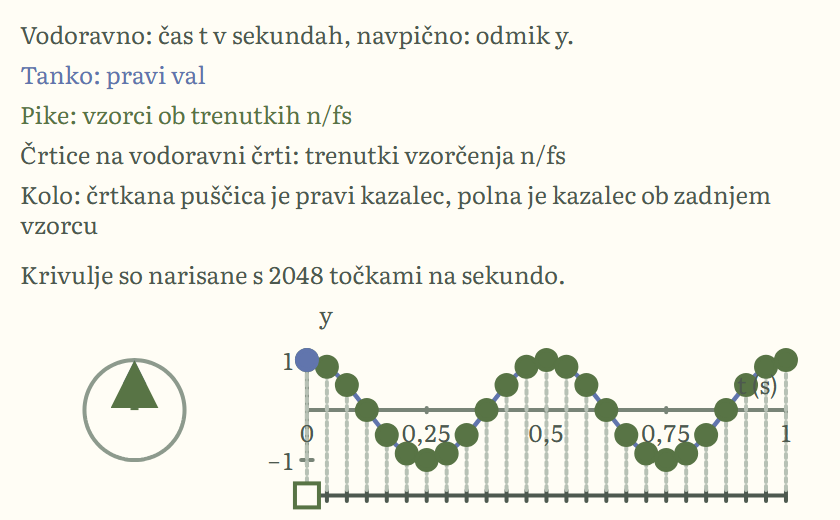
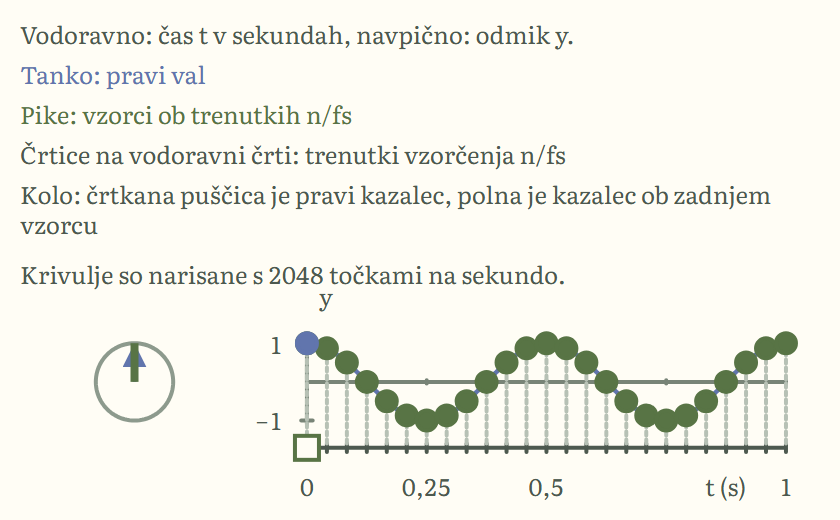
fix: waves sampling layout (tick row under the strip, wheel names inside the board); cards recaptured
Tick numbers and "t (s)" move to a row below the sampling strip, clear of
the dots; 44 px reserved under the strip holds the wheel names at 390 px.
Aliasing and nyquist cards recaptured with a lower window; WV1-WV3 unchanged.

Claude-Session: https://claude.ai/code/session_01UfEZWQHhkNHU2eRpvkyBtG

Changed region(s): [[0.3095, 0.5538, 0.9595, 0.9846], [0.0929, 0.6462, 0.2476, 0.8615], [0.1238, 0.8308, 0.2167, 0.8923]]

diff --git a/src/graphs/functions/WavesGraph.tsx b/src/graphs/functions/WavesGraph.tsx
@@ -82,11 +82,10 @@ export function frameFor(derived: WavesDerived, captions?: {readonly roomPx: num
     // (with the "y" title above its top end) and give the rest of the board's height to the plot.
     if (captions && Number.isFinite(captions.heightPx)) {
         const need = Math.min(captions.roomPx + Y_TITLE_PX, captions.heightPx - MIN_PLOT_PX);
-        // The tick numbers and the axis title stand in a row under the plot (not in sampling mode): keep that row inside the board.
-        if (derived.mode !== "sampling") {
-            const plotPx = captions.heightPx - Math.max(need, 0);
-            bottom = Math.min(bottom, peak - (2 * peak) / (1 - TICK_ROW_PX / plotPx));
-        }
+        // The tick numbers and the axis title stand in a row under the plot (under the strip in sampling mode): keep that row inside the board.
+        const plotPx = captions.heightPx - Math.max(need, 0);
+        if (derived.mode === "sampling") bottom = Math.min(bottom, stripLevel(derived) - (2.55 * peak * SAMPLING_BELOW_PX) / (plotPx - SAMPLING_BELOW_PX));
+        else bottom = Math.min(bottom, peak - (2 * peak) / (1 - TICK_ROW_PX / plotPx));
         if (need > 0) top = Math.max(top, peak + (need * (peak - bottom)) / (captions.heightPx - need));
     }
     return [hasPanel ? -0.66 * span : -0.1 * span, top, 1.06 * span, bottom];
@@ -112,8 +111,14 @@ const NAME_GAP_PX = 24;
 const NAME_ROW_PX = 20;
 const MIN_PLOT_PX = 90;
 
-/** Where a strip of instants lies under the plot (sampling mode), in units of the vertical half extent. */
+/**
+ * Sampling mode, under the plot edge, top to bottom: the strip of instants (its line at `stripLevel`, in board units so that a card window keeps it), the
+ * hollow square (half STRIP_SQUARE_PX), the row of tick numbers and the axis title, and a margin. SAMPLING_BELOW_PX is the height under the strip line; it
+ * also holds the two wheel names (the circle is at most the plot half height, then 58 px of names).
+ */
 const stripLevel = (derived: WavesDerived): number => -1.55 * 1.1 * derived.yPeak;
+const STRIP_SQUARE_PX = 7;
+const SAMPLING_BELOW_PX = 44;
 
 /** A curve that is redrawn only when its source changes. */
 const ALWAYS = (): unknown => ({});
@@ -486,20 +491,18 @@ export class WavesGraph extends BaseGraph<WavesGraphState, WavesState> {
             for (const level of [-derived.yPeak, derived.yPeak]) piece(-0.012 * length, level, 0.012 * length, level);
             return [xs, ys];
         }, {strokeColor: GraphPalette.axis, strokeWidth: 1});
-        // Tick numbers and the axis title stand in one row under the plot (the curves never reach it) except in sampling mode, where the strip lies there.
-        const ticksBelow = mode !== "sampling";
-        const rowY = () => (ticksBelow ? -peak() - TICK_GAP_PX / this.scaleOf().uy : -4 / this.scaleOf().uy);
+        // Tick numbers and the axis title stand in one row under the plot (the curves never reach it); in sampling mode under the strip, so no dot or stem crosses them.
+        const rowY = () => (mode === "sampling" ? stripLevel(d()) - (STRIP_SQUARE_PX + TICK_GAP_PX) / this.scaleOf().uy : -peak() - TICK_GAP_PX / this.scaleOf().uy);
         const tickText = (k: number) => dec((span() * k) / 4, 2);
         const titleText = () => t(mode === "standing" ? "waves_graph_axis_x" : "waves_graph_axis_t");
         // The title takes the middle between the last two numbers; the number before it is left out when the board is too narrow to hold both.
-        const tickFits = (k: number) => !ticksBelow || k !== 3 || (span() * this.scaleOf().ux) / 8 >= (titleText().length * 7 + 4) / 2 + (tickText(3).length * 6.6) / 2 + 4;
+        const tickFits = (k: number) => k !== 3 || (span() * this.scaleOf().ux) / 8 >= (titleText().length * 7 + 4) / 2 + (tickText(3).length * 6.6) / 2 + 4;
         const xAxisLabel = (k: number) => text(() => (span() * k) / 4, rowY, () => tickText(k), {anchorX: "middle", anchorY: "top", fontSize: 12, visible: () => tickFits(k)});
         [0, 1, 2, 3, 4].forEach(xAxisLabel);
-        const yLabelGapPx = ticksBelow ? 12 : 6;
+        const yLabelGapPx = 12;
         text(() => -yLabelGapPx / this.scaleOf().ux, () => d().yPeak, () => dec(d().yPeak, 2), {anchorX: "right", anchorY: "middle", fontSize: 12});
         text(() => -yLabelGapPx / this.scaleOf().ux, () => -d().yPeak, () => `${dec(-d().yPeak, 2)}`, {anchorX: "right", anchorY: "middle", fontSize: 12});
-        if (ticksBelow) text(() => span() * 0.875, rowY, titleText, {anchorX: "middle", anchorY: "top"});
-        else text(() => span() - 4 / this.scaleOf().ux, () => 6 / this.scaleOf().uy, titleText, {anchorX: "right", anchorY: "bottom"});
+        text(() => span() * 0.875, rowY, titleText, {anchorX: "middle", anchorY: "top"});
         text(() => 6 / this.scaleOf().ux, () => Math.max(peak(), d().yPeak + Y_TITLE_CLEARANCE_PX / this.scaleOf().uy) + 2 / this.scaleOf().uy, () => t("waves_graph_axis_y"), {anchorX: "left", anchorY: "bottom"});
 
         const playhead = (): number => this.clock();

diff --git a/src/graphs/functions/WavesGraph.test.tsx b/src/graphs/functions/WavesGraph.test.tsx
@@ -938,3 +938,56 @@ describe('redraw timing (JSDOM PLACEHOLDER, not a browser measurement)', () => {
         writeFileSync('.command-logs/wav02b-redraw.log', `JSDOM PLACEHOLDER waves playback (browser measurement owed at F2b)\n${lines.join('\n')}\n`);
     });
 });
+
+describe('the sampling scene on desktop and narrow boards: wheel names, tick numbers, the strip', () => {
+    const SIZES: ReadonlyArray<readonly [number, number]> = [[900, 520], [390, 520], [330, 520]];
+    const PAIRS: ReadonlyArray<readonly [number, number]> = [[2, 24], [3, 12], [23, 24], [40, 64], [6, 12]];
+    const sizeBoard = (W: number, H: number) => {
+        for (const [name, size] of Object.entries({clientWidth: W, offsetWidth: W, clientHeight: H, offsetHeight: H})) Object.defineProperty(HTMLElement.prototype, name, {configurable: true, get: () => size});
+        HTMLElement.prototype.getBoundingClientRect = () => ({x: 0, y: 0, left: 0, top: 0, right: W, bottom: H, width: W, height: H, toJSON: () => ({})}) as DOMRect;
+    };
+    afterEach(() => {
+        for (const [name, size] of [['clientWidth', 600], ['clientHeight', 400], ['offsetWidth', 600], ['offsetHeight', 400]] as const) Object.defineProperty(HTMLElement.prototype, name, {configurable: true, get: () => size});
+        HTMLElement.prototype.getBoundingClientRect = () => ({x: 0, y: 0, left: 0, top: 0, right: 600, bottom: 400, width: 600, height: 400, toJSON: () => ({})}) as DOMRect;
+    });
+    function sampling(W: number, H: number, f1: number, fs: number, language: 'sl' | 'en') {
+        sizeBoard(W, H);
+        setLanguage(language);
+        const {graph} = mountGraph();
+        choose('sampling');
+        set(graph, {f1, fs, showAlias: true, showJoin: true, showSinc: true});
+        const board = graph.liveBoard() as unknown as {unitX: number; unitY: number; canvasWidth: number; canvasHeight: number; getBoundingBox(): number[]};
+        expect([board.canvasWidth, board.canvasHeight]).toEqual([W, H]);
+        return {graph, board};
+    }
+
+    for (const language of ['sl', 'en'] as const) {
+        for (const [W, H] of SIZES) {
+            for (const [f1, fs] of PAIRS) {
+                test(`wheel names inside the board, tick numbers and the axis title clear of every dot, stem and curve, the strip 4 px inside the bottom (${W} x ${H}, f = ${f1}, fs = ${fs}, ${language})`, () => {
+                    const {graph, board} = sampling(W, H, f1, fs, language);
+                    const boxes = textBoxes(graph);
+                    for (const key of ['waves_graph_tip_true', 'waves_graph_tip_film'] as const) {
+                        const name = boxes.find(b => b.text === t(key))!;
+                        expect(name.y1, `"${name.text}" bottom`).toBeLessThanOrEqual(H);
+                        expect(name.x0, `"${name.text}" left`).toBeGreaterThanOrEqual(0);
+                        expect(name.x1, `"${name.text}" right`).toBeLessThanOrEqual(W);
+                    }
+                    const title = boxes.find(b => b.text === t('waves_graph_axis_t'))!;
+                    expect(title, 'the axis title is drawn').toBeDefined();
+                    expect(boxes.filter(b => /^\d/.test(b.text)).length, 'tick numbers are drawn').toBeGreaterThanOrEqual(2);
+                    expectTextsClear(graph, `sampling ${W}x${H} f=${f1} fs=${fs}`);
+                    for (const box of boxes) expect(box.y1, `"${box.text}" bottom`).toBeLessThanOrEqual(H);
+                    // the strip line and its hollow square keep 4 px or more under them
+                    const [left, top] = board.getBoundingBox();
+                    const square = ofType(graph, 'point').filter(o => visible(o) && o.evalVisProp('size') === 6).map(o => (top - o.Y()) * board.unitY);
+                    expect(square.length).toBeGreaterThan(0);
+                    expect(Math.max(...square) + 7 + 4, 'the square').toBeLessThanOrEqual(H);
+                    const low = Math.max(...curves(graph).filter(visible).flatMap(c => c.dataY!.filter(Number.isFinite).map(y => (top - y) * board.unitY)));
+                    expect(low + 4, 'the lowest curve point').toBeLessThanOrEqual(H);
+                    expect(left).toBeLessThan(0);
+                });
+            }
+        }
+    }
+});

diff --git a/docs/reviews/feature-streams/families-prep/notes/f3-waves-c.md b/docs/reviews/feature-streams/families-prep/notes/f3-waves-c.md
@@ -249,3 +249,10 @@ Registration (section, id `waves-nyquist`), preview copy, test lists (`lessonMat
 Written: sections `aliasing` and `nyquist` (waves chapter, after `standing-waves`; `wavesChapter.ts` from line 79, formulas lines 87 and 100), registry rows, counts (coverage 200 to 202, familyChapters minimum waves 5, smoke minimum waves 5), `lessonMathNotation.test.ts` (import, set, 'waves' x2), `guidedExamplePreviews.test.ts` waves `pending`, `localization.md` row, task 06 and README status; comments in `familyChapters.ts` and `waves/registration.ts`. Chapter examples (lessons use 23/24, 25/24, 9/12, 13/24, 6/12, 5/12, 40/24, f=5 at 9 and 10): WV4 f=14, f_s=20 gives f_a=-6 (backwards); f=20, f_s=20 gives 0; WV5 f=4: f_s=9 determined, f_s=8 samples A cos phi (1,-1,1,...). No change to the lessons or their test.
 Outcome: count tests seen red first (s3-red.log: 200 vs 202; 3 vs 5). tsc, lint, `just unit src/learning src/graphs/functions` (248.6 s), build, `smoke-lesson waves`, node scope tests (58) pass; logs `.command-logs/waves-c/s3-*.log`.
 Not verified: rendered chapter look; smoke-lesson ran 7.8 s, so its coverage of the two new sections is unconfirmed; Slovenian chapter prose and new terms unreviewed by the handler.
+
+## Sampling layout fix (handler 36)
+
+- `WavesGraph.tsx`: in sampling mode the tick numbers and "t (s)" stand in a row under the strip (`rowY`, `STRIP_SQUARE_PX`), so no dot or stem crosses them; strip level stays in board units (cards need stable points). `frameFor` reserves `SAMPLING_BELOW_PX` (44 px) under the strip line, which also holds the two wheel names.
+- Test: "the sampling scene on desktop and narrow boards" (900x520, 390x520, 330x520; five (f, fs) pairs; sl, en); red 30 failed (`.command-logs/waves-c/layout/red.log`), green after.
+- Cards: windows of the two sampling cards changed to [-0.449, 8.4, 0.921, -2.1]; WV1 to WV3 byte-identical (`sha-before.txt`, `sha-after.txt`). Wheel names remain off the cards (text policy).
+- Not verified: 390 px after-shot was a tiny full-page capture; wheel names seen inside the board only coarsely.
